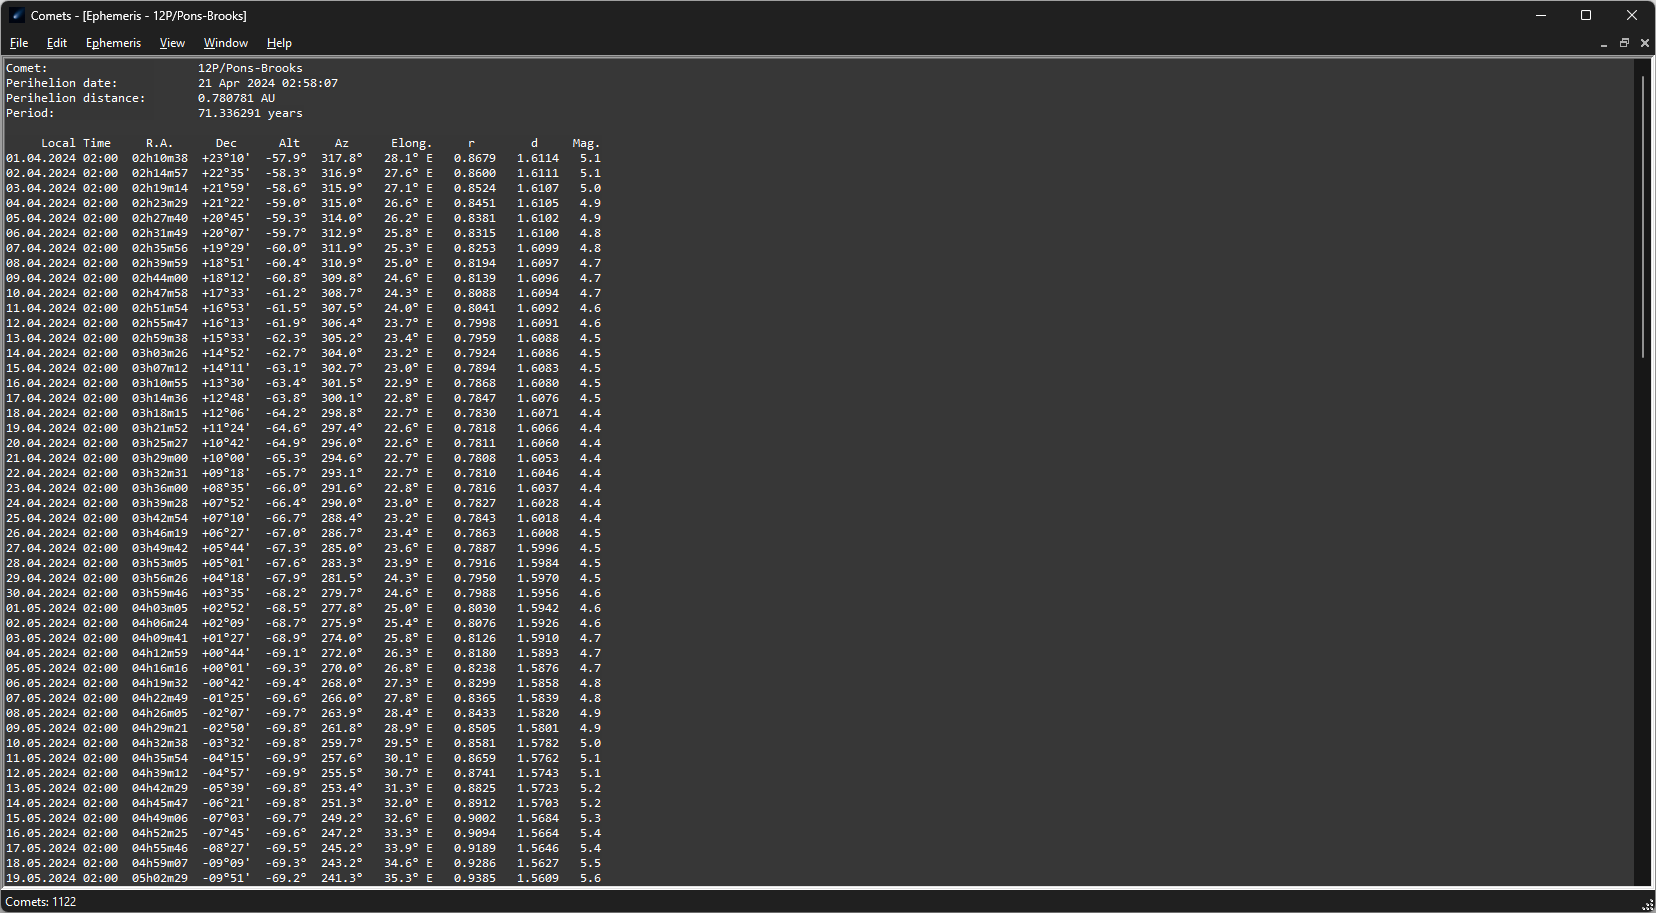
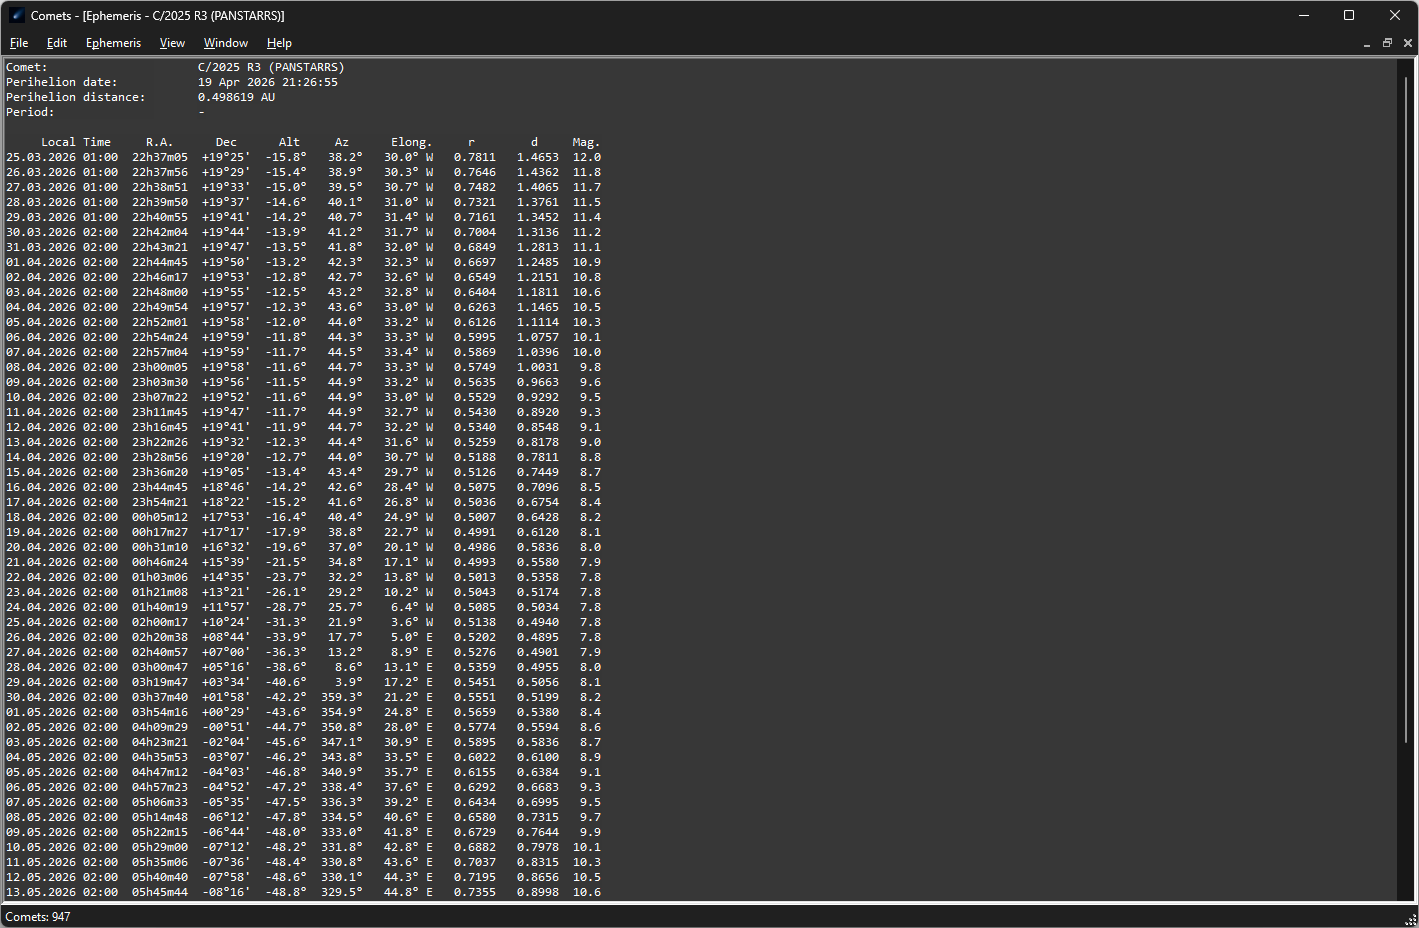
update readme, screenshots

Changed region(s): [[0.0, 0.0, 1.0, 1.0], [0.9612, 0.9507, 1.0, 1.0]]

diff --git a/README.md b/README.md
@@ -1,6 +1,12 @@
 
 # Comets
 
+![dotnet](https://img.shields.io/badge/-.NET-512BD4?logo=dotnet&logoColor=white)
+![cs](https://img.shields.io/badge/-C%23-512BD4?logoColor=white)
+![opengl](https://img.shields.io/badge/-OpenGL-5A8AA7?logo=opengl&logoColor=white)
+[![version](https://img.shields.io/github/v/release/jurakovic/Comets?display_name=release&style=flat&label=version&color=blue)](https://github.com/jurakovic/Comets/releases/latest)
+[![licence](https://img.shields.io/github/license/jurakovic/Comets)](LICENCE)
+
 ## Features
 
 - Ephemeris calculation
@@ -20,16 +26,27 @@ Dark theme thanks to [Dark-Mode-Forms](https://github.com/BlueMystical/Dark-Mode
 
 ## Download
 
-[![GitHub Release](https://img.shields.io/github/v/release/jurakovic/comets?color=blue)](https://github.com/jurakovic/Comets/releases/latest)
+[**Download the latest version**](https://github.com/jurakovic/Comets/releases/latest)
 
 ## Screenshots
 
-![Ephemeris](img/ephemeris.png)
-![Ephemeris_dark](img/ephemeris_dark.png)
-![Graph](img/graph.png)
-![Graph_dark](img/graph_dark.png)
-![Orbit](img/orbit.png)
-![Orbit_dark](img/orbit_dark.png)
+<picture>
+  <source media="(prefers-color-scheme: dark)" srcset="img/ephemeris.png">
+  <source media="(prefers-color-scheme: light)" srcset="img/ephemeris_dark.png">
+  <img src="img/ephemeris.png">
+</picture>
+
+<picture>
+  <source media="(prefers-color-scheme: dark)" srcset="img/graph.png">
+  <source media="(prefers-color-scheme: light)" srcset="img/graph_dark.png">
+  <img src="img/graph.png">
+</picture>
+
+<picture>
+  <source media="(prefers-color-scheme: dark)" srcset="img/orbit.png">
+  <source media="(prefers-color-scheme: light)" srcset="img/orbit_dark.png">
+  <img src="img/orbit.png">
+</picture>
 
 
 ## References
@@ -47,7 +64,7 @@ Dark theme thanks to [Dark-Mode-Forms](https://github.com/BlueMystical/Dark-Mode
 ### Software
 
 [Cartes du Ciel (SkyChart)](https://github.com/pchev/skychart) by Patrick Chevalley  
-[Celestia](https://github.com/CelestiaProject/Celestia) by Chris Laurel [et al.](https://github.com/CelestiaProject/Celestia#contributions)  
+[Celestia](https://github.com/CelestiaProject/Celestia) by Chris Laurel [et al.](https://github.com/CelestiaProject/Celestia#contributions) (my fork [here](https://github.com/jurakovic/Celestia))  
 [Stellarium](https://github.com/Stellarium/stellarium) by Fabien Chereau [et al.](https://github.com/Stellarium/stellarium/blob/master/CREDITS.md)  
 [OrbitViewer](https://www.astroarts.co.jp/products/orbitviewer/index.html) by Osamu Ajiki and Ron Baalke  
 [OrbitViewer](https://ssd.jpl.nasa.gov/tools/orbit_viewer.html) by Kevin Gill et al. (NASA/JPL)  
@@ -69,6 +86,10 @@ Some comets-related pages and sites:
 [Comet Observation database (COBS)](https://cobs.si/)  
 [IAU Minor Planet Center](https://www.minorplanetcenter.net/)  
 [CometWatch](https://www.cometwatch.co.uk/)  
+
+## License
+
+GPL-3.0
 
 ---
 
